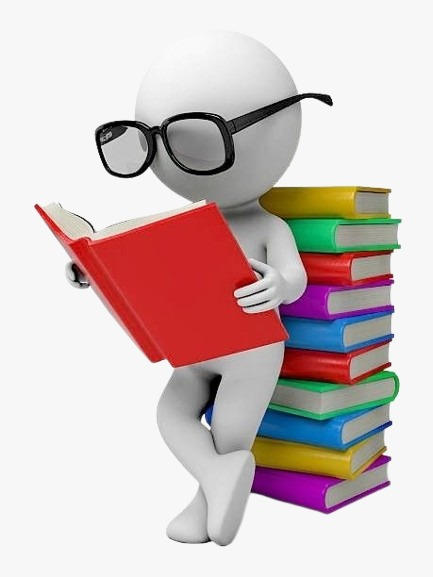
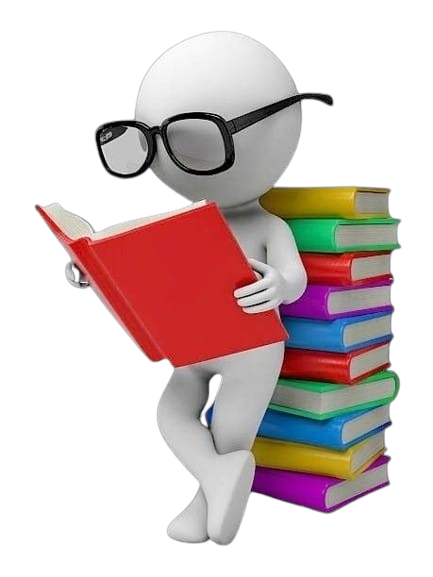
Alteracoes feitas

diff --git a/src/models/Course.js b/src/models/Course.js
@@ -5,7 +5,7 @@ export const MOCK_COURSES = [
     code: 'PWM',
     semester: 2,
     year: 2,
-  },
+      },
   {
     id: '2',
     name: 'Estruturas de Dados e Algoritmos',

diff --git a/src/screens/HomeScreen.jsx b/src/screens/HomeScreen.jsx
@@ -16,7 +16,7 @@ const HomeScreen = () => {
 
   const renderCourseItem = ({ item }) => {
     return (
-      <TouchableOpacity style={styles.card} activeOpacity={0.85}>
+      <TouchableOpacity style={styles.card} activeOpacity={0.50}>
         <View style={styles.cardHeader}>
           <Text style={styles.courseCode}>{item.code}</Text>
           <Text style={styles.year}>{item.year} Ano</Text>

diff --git a/src/screens/HomeScreen.styles.js b/src/screens/HomeScreen.styles.js
@@ -94,7 +94,7 @@ export const styles = StyleSheet.create({
     borderWidth: 1,
     borderColor: '#6b2fa033',
   },
-  credits: {
+  year: {
     fontSize: 12,
     fontWeight: '600',
     color: '#f5a623',

diff --git a/src/screens/WelcomeScreen.jsx b/src/screens/WelcomeScreen.jsx
@@ -27,7 +27,7 @@ const WelcomeScreen = ({ navigation }) => {
           resizeMode="contain"
         />
         <Text style={styles.description}>
-          Aprenda disciplinas de forma simples,{'\n'}organizada e prática.
+          Bem Vindo ao Code Book.
         </Text>
       </View>
 

diff --git a/README.md b/README.md
@@ -1,0 +1,126 @@
+# 📖 CodeBook
+
+## 🎯 Descrição do Projeto
+
+O CodeBook é uma aplicação mobile multiplataforma desenvolvida em **React Native (JavaScript)** que serve como guia de cadeiras para estudantes do curso de Engenharia Informática da UJAC. A aplicação orienta os estudantes na realização de tarefas específicas de cada cadeira, como por exemplo submeter trabalhos no GitHub, inicializar servidor node.js.
+
+---
+
+## 🏗️ Arquitetura — MVVM
+
+O projeto segue o padrão **MVVM (Model — View — ViewModel)**, que promove a separação de responsabilidades e facilita a manutenção do código.
+
+```
+CodeBook/
+├── index.js                        ← Ponto de entrada da app
+├── src/
+│   ├── index.js                    ← Registo do componente principal
+│   ├── assets/
+│   │   └── reader.png              ← Imagem da WelcomeScreen
+│   ├── models/                     ← Camada Model (Dados)
+│   │   └── Course.js
+│   ├── viewmodels/                 ← Camada ViewModel (Lógica)
+│   │   └── HomeViewModel.js
+│   ├── screens/                    ← Camada View (Interface)
+│   │   ├── WelcomeScreen.jsx
+│   │   ├── HomeScreen.jsx
+│   │   └── HomeScreen.styles.js
+│   ├── routes/                     ← Navegação
+│   │   └── AppNavigator.jsx
+│   ├── components/                 ← (Fase 2)
+│   ├── services/                   ← (Fase 3)
+│   └── utils/                      ← (Futuro)
+├── .gitignore
+├── app.json
+├── babel.config.js
+├── package.json
+└── README.md
+```
+
+### Responsabilidades por camada
+
+| Camada | Ficheiro | Responsabilidade |
+|--------|----------|------------------|
+| **Model** | `Course.js` | Define a estrutura e dados mock das cadeiras |
+| **ViewModel** | `HomeViewModel.js` | Fornece os dados tratados à View |
+| **View** | `WelcomeScreen.jsx`, `HomeScreen.jsx` | Interface apresentada ao utilizador |
+
+---
+
+## 📱 Ecrãs Implementados
+
+### WelcomeScreen
+Primeiro ecrã da aplicação. Apresenta o nome da app, uma imagem ilustrativa e um botão para avançar.
+
+### HomeScreen
+Lista todas as cadeiras disponíveis em cards organizados.
+
+---
+
+## 🎨 Design e UX/UI
+
+### Design Responsivo
+A interface adapta-se a diferentes tamanhos de ecrã usando `Dimensions`:
+
+### Paleta de Cores UJAC
+```javascript
+backgroundColor: '#4a1d6e', // Roxo escuro UJAC — header
+backgroundColor: '#6b35b0', // Roxo médio — corpo
+backgroundColor: '#8b45c5', // Roxo claro — badges
+color: '#f5a623',           // Dourado — destaques
+color: '#ffffff',           // Branco — textos principais
+```
+---
+
+## 📦 Dependências
+
+| Pacote | Versão | Uso |
+|--------|--------|-----|
+| `react-native` | 0.72.7 | Framework mobile |
+| `@react-navigation/native` | 6.1.9 | Navegação |
+| `@react-navigation/native-stack` | 6.9.17 | Stack de navegação |
+| `react-native-screens` | 3.29.0 | Otimização de ecrãs |
+| `react-native-safe-area-context` | 4.8.2 | Áreas seguras |
+
+---
+
+## 🌿 Estrutura Git
+
+```
+main
+└── develop
+    └── feature/setup-architecture  ✅ Fase 1 
+    └── feature/ui-ux ✅ Fase 2
+```
+
+## 🚀 Como Executar
+
+```
+# Instalar dependências
+npm install --legacy-peer-deps
+
+# Terminal 1 — iniciar Metro
+npx react-native start
+
+# Terminal 2 — instalar no dispositivo
+adb reverse tcp:8081 tcp:8081
+npx react-native run-android
+```
+
+---
+
+## ✅ Fase 1 — Concluída
+
+- [x] Projeto React Native criado
+- [x] Linguagem: JavaScript
+- [x] Arquitetura MVVM implementada
+- [x] Model `Course.js` com dados mock
+- [x] `HomeViewModel.js` com lógica de dados
+- [x] `WelcomeScreen.jsx` com imagem e navegação
+- [x] `HomeScreen.jsx` conectada ao ViewModel
+- [x] Estilos separados em `HomeScreen.styles.js`
+- [x] Navegação configurada com React Navigation
+- [x] Design responsivo com `Dimensions`
+- [x] Paleta de cores UJAC aplicada
+- [x] `.gitignore` configurado
+- [x] README inicial